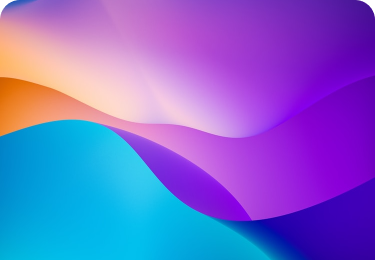
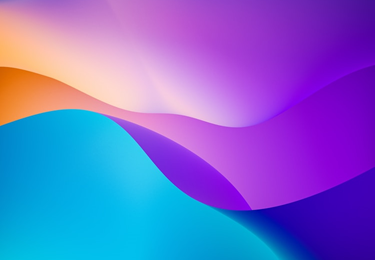
Replaced rounded corner png images with squared ones

diff --git a/css/index.css b/css/index.css
@@ -461,8 +461,6 @@ section {
     font-size: 1.6rem;
     display: flex;
     flex-direction: column;
-    justify-content: space-evenly;
-    align-items: stretch;
     overflow: hidden;
     box-shadow: var(--box-shadow-light-mode);
 }
@@ -487,7 +485,6 @@ section {
 }
 
 .card__image {
-    margin-top: -10px; /* Workaround to hide the 'rounded top corners artifact' that might appear when the image container has rounded corners */
     padding: 0;
     display: block;
     width: 100%;
@@ -509,7 +506,6 @@ section {
 
 .card__footnote {
     flex: 5;
-    height: 10%;
 }
 
 .card__footer {
@@ -687,10 +683,6 @@ section {
         height: 56.7rem;
         min-width: 37.3rem;
         min-height: 56.7rem;
-    }
-
-    .card__image {
-        margin-top: 0px; /* Workaround is not needed for Tablets & Desktops */
     }
 
     .card__description {

diff --git a/README.md b/README.md
@@ -25,7 +25,6 @@ The site has also been published on Netlify (see link below):
 Known problems:
 1. Contact gradient doesn't render properly when printed with Google Chrome.
 2. Gradients don't render properly when printed with Safari on iPad and iPhone.
-3. Weird artifact appears on the top corners at the project images when the card is resized to a 'full screen image'. The problem has been worked around by setting the image margin-top to -10px.
 
 Notes:
 1. The GitHub, Twitter & LinkedIn icons have not been linked to any profile at this time.
